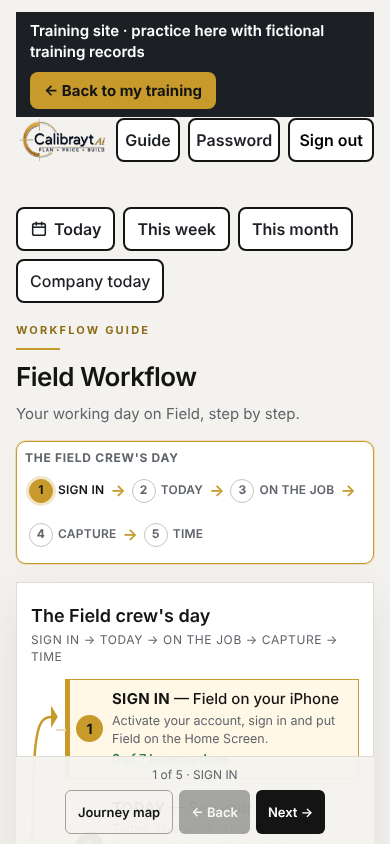
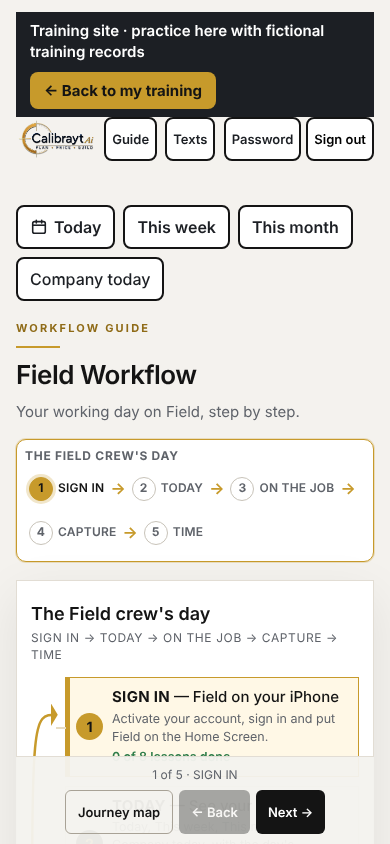
Training for schedule texts: Field Crew lesson, Getting started, Workflow Map, Tutor
- Field Crew module 3 gains "Schedule texts: a text when your work moves" (turn
  on with number and agreement, what a text says, turn off / reply STOP) and
  acceptance test uat-f03-texts; module 1 names the new Texts header button;
  "When the office changes your dates" no longer says Field never sends a message.
- Getting started: phones step asks each worker about schedule texts; crew
  schedule step says moved work texts consenting workers (Calendar -> Text notices).
- Workflow Map 2026-10-22.2: Field TODAY stage "Schedule texts" (field.text_messages),
  contractor BUILD stage "Schedule texts to the crew" (Text notices).
- Training Tutor answers questions about texts / SMS / STOP.
- Field Crew pictures recaptured from the real pages on the local training site
  (tools/training/capture_field_crew_shots.mjs) with the new Texts button, plus
  f03-texts-off.png and f03-texts-on.png.
- evidence_field_crew.mjs and the capture script counted 27 lessons / 17 tests;
  the base already had 28 / 18 after the Useful Calculators lesson (3 failures at
  a3f9681). Now 29 lessons / 19 tests.

Claude-Session: https://claude.ai/code/session_01Gt3yQsGEScje26ZopVkG3s

diff --git a/app/training/field_crew.py b/app/training/field_crew.py
@@ -12,8 +12,10 @@ promises more than Field does, the lesson says so plainly and says what the offi
 
 - Drawings: Field opens the job's construction drawings and plan PDFs read-only. It cannot mark up, upload or
   change a drawing, and it does not show the customer's contract, the quote or the material list.
-- Schedule changes: only the office changes dates. Field has no message or alert when a date moves; the new
-  dates show the next time a Field page opens (it checks itself when the app comes back on screen).
+- Schedule changes: only the office changes dates. The new dates show the next time a Field page opens (it checks
+  itself when the app comes back on screen). A worker who turns on schedule texts (Field → Texts) also gets one
+  text when the office moves their work, puts them on it or takes them off it (22 Oct 2026). The training site
+  never sends a real text.
 - Progress updates: there is no percent-complete or status button. A progress update is a note and photos on
   Capture; the office reads them under Field Observations.
 - Refresh: there is no refresh button. Tap Today (or This week) again, or close and reopen the app.
@@ -143,9 +145,9 @@ M01 = Module(
                      if_wrong="If an office page opens, stop and tell Ben: you should be Field only.",
                      shot="f01-field-today.png", endpoint="field.today"),
                 Step(title="The buttons at the very top", app=F, where="Field → the black bar at the top",
-                     do="Find Guide, Password and Sign out",
-                     expect="Guide opens your day on Field step by step. Password changes your password. Sign out "
-                            "signs you out.",
+                     do="Find Guide, Texts, Password and Sign out",
+                     expect="Guide opens your day on Field step by step. Texts turns schedule texts on or off. "
+                            "Password changes your password. Sign out signs you out.",
                      if_wrong="On the training site a dark bar above it says Training site, with ← Back to my "
                               "training. That is only on the training site.",
                      shot="f01-field-today.png", endpoint="field.today"),
@@ -167,7 +169,7 @@ M01 = Module(
                      if_wrong="Not there? Type the training site address and /training in Safari.",
                      endpoint="training.home"),
             ),
-            exercise="Open Field from your training home, find Guide, Password and Sign out, then go back to your "
+            exercise="Open Field from your training home, find Guide, Texts, Password and Sign out, then go back to your "
                      "training with ← Back to my training.",
         ),
         Lesson(
@@ -371,8 +373,9 @@ M03 = Module(
                 Step(title="See the new dates", app=F, where="Field → This week",
                      do="Tap This week again (or close and reopen Field)",
                      expect="The work shows on its new days.",
-                     why="Field does not send a message when a date moves. It checks for the newest schedule each "
-                         "time a page opens, and when you come back to the app after a few minutes.",
+                     why="Field checks for the newest schedule each time a page opens, and when you come back to "
+                         "the app after a few minutes. If you turned on schedule texts (next lesson), you also get "
+                         "a text about the move.",
                      if_wrong="Still the old dates? Check you have a signal (lesson 'No signal'). An Offline bar means "
                               "you are looking at the copy saved on the phone.",
                      shot="f03-week-moved.png", endpoint="field.week"),
@@ -384,6 +387,48 @@ M03 = Module(
             ),
             exercise="Ask the trainer (or Ben) to move your Harbour Lane dates on the training site. Then tap This "
                      "week again and find the work on its new days.",
+        ),
+        Lesson(
+            key="f03-texts", title="Schedule texts: a text when your work moves",
+            what="Turn on schedule texts, know what a text says, and turn them off again.",
+            why="When the office moves your work, puts you on a job or takes you off one, you get one text with the "
+                "old and new dates, so you do not drive to the wrong site. Texts are only sent if you agree.",
+            steps=(
+                Step(title="Open Texts", app=F, where="Field → Texts (at the very top, next to Password)",
+                     do="Tap Texts",
+                     expect="Schedule texts. It says Texts are off, with a box for your mobile number and a box to "
+                            "tick.",
+                     if_wrong="No Texts button? Tap Today first; Texts is in the black bar at the top of every "
+                              "Field page.",
+                     shot="f03-texts-off.png", endpoint="field.text_messages"),
+                Step(title="Turn texts on", app=F, where="Schedule texts",
+                     do="Type your mobile number. Read the sentence beside the box and tick it. Tap Turn on "
+                        "schedule texts",
+                     enter="Your own mobile number, for example 613-555-0100",
+                     expect="Schedule texts are on. The page says Texts are on for your number.",
+                     why="Ticking the box is your agreement. It is saved with the date, so the office knows you "
+                         "said yes.",
+                     if_wrong="'Tick the box' means the box was not ticked. 'Enter a mobile number like "
+                              "613-555-0100' means the number is too short or too long.",
+                     shot="f03-texts-on.png", endpoint="field.text_messages"),
+                Step(title="What a text looks like", app=F, where="Messages on your iPhone",
+                     do="Read the text when one comes",
+                     expect="For example: Brayman Construction: schedule change. Footings (Merrickville) moved: "
+                            "Mon Nov 2 -> Wed Nov 4. Field: and a link. Tap the link to open This week.",
+                     why="One text comes about five minutes after the office stops editing, even if they changed "
+                         "several things. It never has money or the customer's details in it. Nobody reads replies: "
+                         "call the office with questions.",
+                     if_wrong="No text? Field still shows the newest dates; check This week. The office can see "
+                              "whether your text was delivered. The training site never sends a real text.",
+                     shot="f03-week-moved.png", endpoint="field.week"),
+                Step(title="Turn texts off", app=F, where="Field → Texts",
+                     do="Tap Stop schedule texts. Or reply STOP to any text",
+                     expect="Schedule texts are off. You still see every change on Field.",
+                     if_wrong="Still getting texts? Reply STOP to the text, then call the office.",
+                     shot="f03-texts-on.png", endpoint="field.text_messages"),
+            ),
+            exercise="On the training site: open Texts, turn on schedule texts with your mobile number, then tap "
+                     "Stop schedule texts. (The training site never sends a real text.)",
         ),
     ),
 )
@@ -928,6 +973,11 @@ UAT_CASES = (
        "Field → This week, after the office moves your Harbour Lane dates",
        "Tap This week again.",
        "The work shows on the new days. Field has no button to change a date."),
+    _u("uat-f03-texts", "f03", "Turn schedule texts on and off",
+       "Field → Texts on your iPhone",
+       "Type your mobile number, tick the box, tap Turn on schedule texts. Then tap Stop schedule texts.",
+       "First 'Schedule texts are on.' with your number, then 'Schedule texts are off.' Only your own number is "
+       "shown. No sideways scrolling on the iPhone."),
     _u("uat-f04-drawings", "f04", "Drawings and plans open",
        f"Field → Choose Project → {JOB} → Drawings and plans",
        "Tap the plan's name.",

diff --git a/app/workflow_map/definition.py b/app/workflow_map/definition.py
@@ -33,7 +33,7 @@ from app.models.training import (
     ROLE_SUPPLIER_OWNER,
 )
 
-DEFINITION_VERSION = "2026-10-22.1"
+DEFINITION_VERSION = "2026-10-22.2"  # .2: schedule texts (SMS notices, 22 Oct 2026)
 
 # ------------------------------------------------------------------ vocabulary
 
@@ -397,7 +397,8 @@ CONTRACTOR_STAGES: Tuple[Stage, ...] = (
     Stage(
         id="c-build", journey="contractor", number=5, label="BUILD", title="Run the work",
         summary="Calendars, crews, Field, purchase orders, deliveries, field activity and change orders.",
-        description="The work is scheduled on the calendars and assigned to crews, who see it on Field. "
+        description="The work is scheduled on the calendars and assigned to crews, who see it on Field; when "
+                    "their work moves, workers who agreed to texts get one text about it. "
                     "Purchase orders go to the suppliers, who confirm them; deliveries are scheduled and "
                     "changed together. Field notes, time and extra work come back to the office, and extra work "
                     "becomes an approved change order.",
@@ -408,6 +409,8 @@ CONTRACTOR_STAGES: Tuple[Stage, ...] = (
             S("schedule", "Schedule project activities",
               _project("work_structure.project_work_plan", "Open Project work"), lesson="c11-schedule-crew"),
             S("crews", "Assign crews", D_SCHEDULE_NEW, lesson="c11-schedule-crew"),
+            S("text-notices", "Schedule texts to the crew (sent, delivered, failed, Retry)",
+              _d("sms_notifications.office_notices", "Open Text notices")),
             S("field", "Field Today, Week and Month", D_FIELD_TODAY, lesson="c05-field-schedule"),
             S("orders", "Purchase orders", D_SUPPLIER_REQUESTS, lesson="c08-place-order"),
             S("confirmations", "Supplier confirmations", D_DELIVERIES, lesson="c08-place-order"),
@@ -485,7 +488,8 @@ FIELD_STAGES: Tuple[Stage, ...] = (
         id="f-today", journey="field", number=2, label="TODAY", title="See your day",
         summary="Today, This week, This month and Company today, with the day's deliveries.",
         description="Today shows the work you are on and the deliveries for your jobs. This week and This month "
-                    "show what is coming; Company today shows what the whole company has on.",
+                    "show what is coming; Company today shows what the whole company has on. Turn on schedule "
+                    "texts (Texts, at the top of Field) to get a text when the office moves your work.",
         primary=D_FIELD_TODAY,
         substeps=(
             S("today", "Today", D_FIELD_TODAY, lesson="f02-my-work"),
@@ -495,9 +499,12 @@ FIELD_STAGES: Tuple[Stage, ...] = (
               lesson="f02-company-today"),
             S("changes", "Schedule changes (the office moves dates)", _field("field.week", "Open This week"),
               lesson="f03-changes"),
+            S("texts", "Schedule texts (a text when your work moves)",
+              _field("field.text_messages", "Open Schedule texts"), lesson="f03-texts"),
         ),
-        lessons=("f02-my-work", "f02-company-today", "f03-week", "f03-month", "f03-changes", "f07-refresh"),
-        uat=("uat-f02-today", "uat-f03-week-month", "uat-f03-change"),
+        lessons=("f02-my-work", "f02-company-today", "f03-week", "f03-month", "f03-changes", "f03-texts",
+                 "f07-refresh"),
+        uat=("uat-f02-today", "uat-f03-week-month", "uat-f03-change", "uat-f03-texts"),
         roles=CONTRACTOR_ROLES,
     ),
     Stage(

diff --git a/app/services/onboarding.py b/app/services/onboarding.py
@@ -142,7 +142,9 @@ STEPS: List[Step] = [
          "On each iPhone: open the email link in Safari, set the password, then Share → Add to Home Screen (the "
          "CalibraytAI icon is Field). Then open the CalibraytAI address ending in /useful-calculators/ in Safari, "
          "Share → Add to Home Screen, keep the name Useful Calculators, open the new icon, sign in, try a calculator "
-         "and tap ‹ All calculators to return. Mark done.",
+         "and tap ‹ All calculators to return. Ask each one if they want schedule texts: they tap Texts on Field, "
+         "type their mobile number and tick the box (or, with their agreement, enter it on their People & Access "
+         "page). Mark done.",
          "people_access.index"),
     Step("calendars", "Company and personal calendars", "Appointments and the job schedule in one place.",
          "Calendar → New appointment. Choose Company (everyone sees it) or Personal (only you).",
@@ -166,7 +168,7 @@ STEPS: List[Step] = [
          "Project → Supplier requests → approve the supplier's quote → Place order.",
          "supplier_office.deliveries", _purchase_order),
     Step("crew_schedule", "Schedule the crew", "The boys see their work on their phones.",
-         "Project → Open project work → Add work item. Then Calendar → Set dates, and on those dates assign a crew. It shows on Field for that crew.",
+         "Project → Open project work → Add work item. Then Calendar → Set dates, and on those dates assign a crew. It shows on Field for that crew; when you move it later, each worker who agreed to texts gets one text (Calendar → Text notices shows sent, delivered or failed).",
          "schedule.company", _crew_scheduling),
     Step("working_day", "Run a complete working day", "Schedule, field time, deliveries and changes, end to end.",
          "Check Home in the morning, follow the job on Field, approve time, answer deliveries. Mark done after a full day.",

diff --git a/app/training/service.py b/app/training/service.py
@@ -389,6 +389,11 @@ GENERAL_HELP = GENERAL_HELP + (
                                  "(your progress is kept). Field crew get the Field Crew training: Field lessons only."),
     ("field open app today", "On your training home press Open Field: CalibraytAI Field opens at Today. On Field, the "
                              "Training site bar at the top has Back to my training."),
+    ("text texts sms message messages notification notifications stop", "Schedule texts: on Field tap Texts (top of "
+     "the page), type your mobile number, tick the box and tap Turn on schedule texts. When the office moves your "
+     "work, puts you on a job or takes you off one, you get one text with the old and new dates and a link to Field. "
+     "Stop them with Stop schedule texts or by replying STOP. The office sees each text on Calendar → Text notices "
+     "(sent, delivered or failed, with Retry). The training site never sends a real text."),
 )
 
 _WHERE = {"where", "find", "menu", "button", "press", "click", "open", "locate"}
